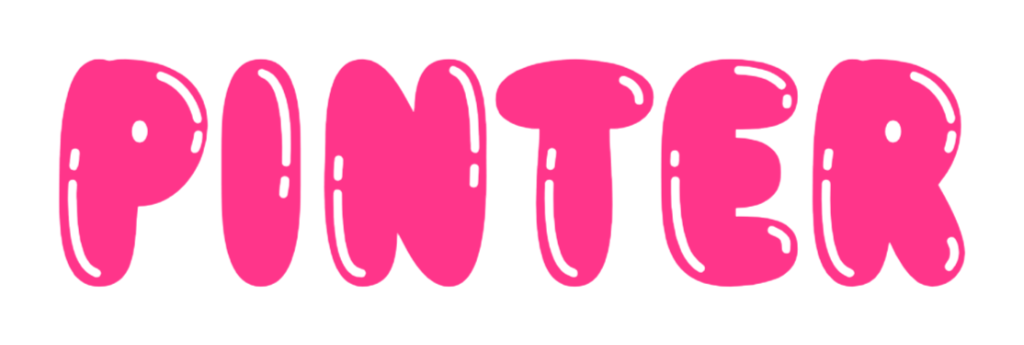
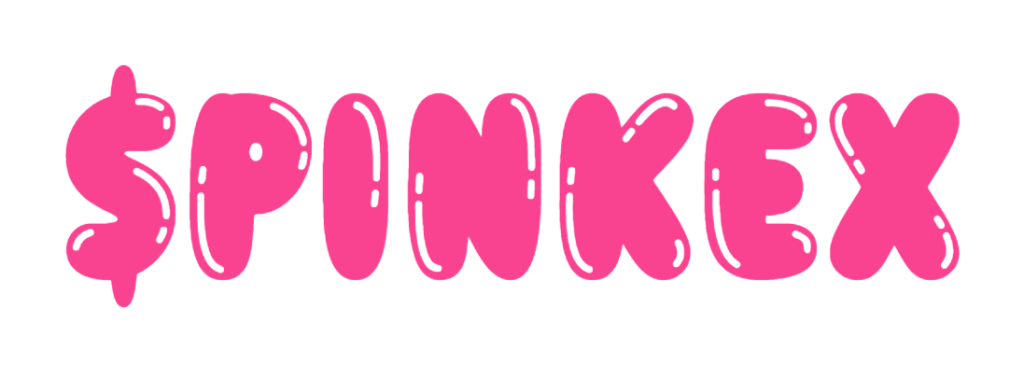
1

Changed region(s): [[0.0312, 0.1449, 0.9688, 0.8406]]

diff --git a/index.html b/index.html
@@ -3,11 +3,11 @@
 <head>
     <meta charset="utf-8"/>
     <meta http-equiv="Content-Type" content="text/html; charset=utf-8"/>
-    <meta name="viewport" content="width=device-width, initial-scale=1.0"/> <!--metatextblock--> <title>$PINTER</title>
-    <meta name="description" content="$PINTER"/>
+    <meta name="viewport" content="width=device-width, initial-scale=1.0"/> <!--metatextblock--> <title>$PINKEX</title>
+    <meta name="description" content="$PINKEX"/>
     <meta property="og:url" content="#"/>
-    <meta property="og:title" content="$PINTER"/>
-    <meta property="og:description" content="$PINTER"/>
+    <meta property="og:title" content="$PINKEX"/>
+    <meta property="og:description" content="$PINKEX"/>
     <meta property="og:type" content="website"/>
     <link rel="canonical" href="#"> <!--/metatextblock-->
     <meta name="format-detection" content="telephone=no"/>
@@ -134,7 +134,7 @@ document.addEventListener('DOMContentLoaded',t_setvisRecs);}})();
                      data-animate-sbs-opts="[{'ti':0,'mx':0,'my':0,'sx':1,'sy':1,'op':1,'ro':0,'bl':'0','ea':'','dt':0},{'ti':0,'mx':0,'my':0,'sx':1,'sy':1,'op':0,'ro':0,'bl':'0','ea':'','dt':0},{'ti':0,'mx':0,'my':0,'sx':1,'sy':1,'op':1,'ro':0,'bl':'0','ea':'','dt':0}]"
                      data-field-top-res-320-value="12" data-field-left-res-320-value="-24"
                      data-field-height-res-320-value="35" data-field-width-res-320-value="363">
-                    <div class='tn-atom'>CA - 6atZBeocdRkoF18uciy2FNKWFsD61Lt53MzDLHhpump</div>
+                    <div class='tn-atom'>CA - CYKbiRqtxZgKfaStib4tABMtVHsGyykGeZvrudmpump</div>
                 </div>
             </div>
         </div>
@@ -213,7 +213,7 @@ document.addEventListener('DOMContentLoaded',t_setvisRecs);}})();
                      data-animate-sbs-opts="[{'mx':0,'my':0,'sx':1,'sy':1,'op':1,'ro':0,'ti':0,'ea':'0','dt':0},{'mx':6,'my':2,'sx':1,'sy':1,'op':1,'ro':0,'ti':300,'ea':'0','dt':0}]"
                      data-field-filewidth-value="121" data-field-fileheight-value="309"
                      data-field-top-res-320-value="280" data-field-left-res-320-value="271"
-                     data-field-width-res-320-value="49"><a class='tn-atom' href="https://t.me/iampinter"> <img
+                     data-field-width-res-320-value="49"><a class='tn-atom' href="https://t.me/iampinkex"> <img
                         class='tn-atom__img t-img'
                         data-original='https://static.tildacdn.one/tild3038-3439-4363-b061-386666626138/__-07.svg'
                         alt='' imgfield='tn_img_1727151381364'/> </a></div>
@@ -227,7 +227,7 @@ document.addEventListener('DOMContentLoaded',t_setvisRecs);}})();
                      data-field-filewidth-value="159" data-field-fileheight-value="280"
                      data-field-top-res-320-value="292" data-field-left-res-320-value="68"
                      data-field-width-res-320-value="64"><a class='tn-atom'
-                                                            href="https://pump.fun/6atZBeocdRkoF18uciy2FNKWFsD61Lt53MzDLHhpump"
+                                                            href="https://pump.fun/CYKbiRqtxZgKfaStib4tABMtVHsGyykGeZvrudmpump"
                                                             target="_blank"> <img class='tn-atom__img t-img'
                                                                                   data-original='./static.tildacdn.one/tild3337-3130-4366-a263-376566303136/__-04.svg'
                                                                                   alt=''
@@ -258,7 +258,7 @@ document.addEventListener('DOMContentLoaded',t_setvisRecs);}})();
                      data-animate-sbs-opts="[{'mx':0,'my':0,'sx':1,'sy':1,'op':1,'ro':0,'ti':0,'ea':'0','dt':0},{'mx':6,'my':2,'sx':1,'sy':1,'op':1,'ro':0,'ti':300,'ea':'0','dt':0}]"
                      data-field-filewidth-value="135" data-field-fileheight-value="356"
                      data-field-top-res-320-value="259" data-field-left-res-320-value="200"
-                     data-field-width-res-320-value="55"><a class='tn-atom' href="https://x.com/iampinter"
+                     data-field-width-res-320-value="55"><a class='tn-atom' href="https://x.com/iampinkex"
                                                             target="_blank"> <img class='tn-atom__img t-img'
                                                                                   data-original='https://static.tildacdn.one/tild3436-6139-4662-b933-303162633764/__-06.svg'
                                                                                   alt=''
@@ -282,16 +282,16 @@ document.addEventListener('DOMContentLoaded',t_setvisRecs);}})();
                      data-animate-duration="2" data-animate-delay="0.1" data-animate-distance="100"
                      data-animate-mobile="y" data-field-top-res-320-value="1058" data-field-left-res-320-value="-18"
                      data-field-width-res-320-value="356">
-                    <div class='tn-atom' field='tn_text_1727184762584'>PEPE and PINTER didn't know each other personally,
+                    <div class='tn-atom' field='tn_text_1727184762584'>PEPE and PINKEX didn't know each other personally,
                         but they had heard a lot about each other. But fate decided to bring them together. This is the
                         story of how an ordinary meeting in a bar, led to a very unusual business!<br><br>The story:<br>After
                         the second beer, the conversation turned to money and business, of course. Pepe knew that I was
                         into crypto, and I knew that only Pepe could take me and my hobby to the next level. That night,
                         I remembered his main thought and phrase “Memcoins are for people like us”. I had no idea that
-                        such a simple thought could lead me and him to a big project together - PINTER. For a long time,
+                        such a simple thought could lead me and him to a big project together - PINKEX. For a long time,
                         we studied trends, charts, learned from the mistakes of others, did everything! To become one of
                         the best! For PEPE this project is a proof that he is good in all areas, for me it is a new
-                        life!<br><br>I invite everyone to get acquainted with our unique project - $PINTER
+                        life!<br><br>I invite everyone to get acquainted with our unique project - $PINKEX
                     </div>
                 </div>
                 <div class='t396__elem tn-elem tn-elem__8013551231727382376860' data-elem-id='1727382376860'
@@ -654,8 +654,8 @@ document.addEventListener('DOMContentLoaded',t_setvisRecs);}})();
                      data-field-top-res-320-value="-24" data-field-left-res-320-value="90"
                      data-field-width-res-320-value="1258"
                      data-animate-sbs-opts-res-320="[{'mx':0,'my':0,'sx':1,'sy':1,'op':1,'ro':0,'ti':0,'dt':0},{'mx':-557,'my':0,'sx':1,'sy':1,'op':1,'ro':0,'ti':12000,'dt':0}]">
-                    <div class='tn-atom' field='tn_text_1726986932737'>$PINTER $PINTER $PINTER $PINTER
-                        $PINTER $PINTER $PINTER $PINTER $PINTER $PINTER $PINTER $PINTER $PINTER $PINTER
+                    <div class='tn-atom' field='tn_text_1726986932737'>$PINKEX $PINKEX $PINKEX $PINKEX
+                        $PINKEX $PINKEX $PINKEX $PINKEX $PINKEX $PINKEX $PINKEX $PINKEX $PINKEX $PINKEX
                     </div>
                 </div>
                 <div class='t396__elem tn-elem tn-elem__8013571741726986932735' data-elem-id='1726986932735'
@@ -673,7 +673,7 @@ document.addEventListener('DOMContentLoaded',t_setvisRecs);}})();
                      data-field-heightunits-value="" data-field-widthunits-value="px" data-animate-mobile="y"
                      data-field-top-res-320-value="-28" data-field-left-res-320-value="-36"
                      data-field-width-res-320-value="102">
-                    <div class='tn-atom' field='tn_text_1726986932733'>$PINTER</div>
+                    <div class='tn-atom' field='tn_text_1726986932733'>$PINKEX</div>
                 </div>
             </div>
         </div>
@@ -879,7 +879,7 @@ document.addEventListener('DOMContentLoaded',t_setvisRecs);}})();
                      data-animate-duration="1" data-animate-distance="100" data-animate-mobile="y"
                      data-field-top-res-320-value="1064" data-field-left-res-320-value="-13"
                      data-field-width-res-320-value="237">
-                    <div class='tn-atom' field='tn_text_1726990151743'>SWITCH YOUR SOL<br>ON $PINTER</div>
+                    <div class='tn-atom' field='tn_text_1726990151743'>SWITCH YOUR SOL<br>ON $PINKEX</div>
                 </div>
                 <div class='t396__elem tn-elem tn-elem__8013610331727242499553' data-elem-id='1727242499553'
                      data-elem-type='image' data-field-top-value="-175" data-field-left-value="3025"
@@ -965,7 +965,7 @@ document.addEventListener('DOMContentLoaded',t_setvisRecs);}})();
                      data-animate-sbs-opts="[{'ti':0,'mx':0,'my':0,'sx':1,'sy':1,'op':1,'ro':0,'bl':'0','ea':'','dt':0},{'ti':0,'mx':0,'my':0,'sx':1,'sy':1,'op':0,'ro':0,'bl':'0','ea':'','dt':0},{'ti':0,'mx':0,'my':0,'sx':1,'sy':1,'op':1,'ro':0,'bl':'0','ea':'','dt':0}]"
                      data-field-top-res-320-value="820" data-field-left-res-320-value="-24"
                      data-field-height-res-320-value="35" data-field-width-res-320-value="363">
-                    <div class='tn-atom'>CA - 6atZBeocdRkoF18uciy2FNKWFsD61Lt53MzDLHhpump</div>
+                    <div class='tn-atom'>CA - CYKbiRqtxZgKfaStib4tABMtVHsGyykGeZvrudmpump</div>
                 </div>
                 <div class='t396__elem tn-elem tn-elem__8013767601726992670973 ' data-elem-id='1726992670973'
                      data-elem-type='shape' data-field-top-value="468" data-field-left-value="28"
@@ -977,7 +977,7 @@ document.addEventListener('DOMContentLoaded',t_setvisRecs);}})();
                      data-animate-sbs-opts="[{'mx':0,'my':0,'sx':1,'sy':1,'op':1,'ro':0,'ti':0,'ea':'0','dt':0},{'mx':0,'my':0,'sx':1,'sy':1,'op':1,'ro':0,'ti':0,'ea':'0','dt':0},{'mx':0,'my':0,'sx':1.14,'sy':1.14,'op':1,'ro':0,'ti':500,'ea':'0','dt':0},{'mx':0,'my':0,'sx':1,'sy':1,'op':1,'ro':0,'ti':500,'ea':'0','dt':0}]"
                      data-field-top-res-320-value="268" data-field-left-res-320-value="25"
                      data-field-height-res-320-value="134" data-field-width-res-320-value="131"><a
-                        class='tn-atom t-bgimg' href="https://x.com/iampinter" target="_blank"
+                        class='tn-atom t-bgimg' href="https://x.com/iampinkex" target="_blank"
                         data-original="https://static.tildacdn.one/tild6136-6665-4639-b830-646562633633/facdd348-c5a7-440f-9.png"> </a>
                 </div>
                 <div class='t396__elem tn-elem tn-elem__8013767601726992670970 ' data-elem-id='1726992670970'
@@ -990,7 +990,7 @@ document.addEventListener('DOMContentLoaded',t_setvisRecs);}})();
                      data-animate-sbs-opts="[{'mx':0,'my':0,'sx':1,'sy':1,'op':1,'ro':0,'ti':0,'ea':'0','dt':0},{'mx':0,'my':0,'sx':1,'sy':1,'op':1,'ro':0,'ti':0,'ea':'0','dt':0},{'mx':0,'my':0,'sx':1.12,'sy':1.12,'op':1,'ro':0,'ti':600,'ea':'0','dt':0},{'mx':0,'my':0,'sx':1,'sy':1,'op':1,'ro':0,'ti':600,'ea':'0','dt':0}]"
                      data-field-top-res-320-value="268" data-field-left-res-320-value="171"
                      data-field-height-res-320-value="117" data-field-width-res-320-value="116"><a
-                        class='tn-atom t-bgimg' href="https://t.me/iampinter" target="_blank"
+                        class='tn-atom t-bgimg' href="https://t.me/iampinkex" target="_blank"
                         data-original="https://static.tildacdn.one/tild3532-3539-4361-a263-653530313564/193209b4-fd67-4be4-8.png"> </a>
                 </div>
                 <div class='t396__elem tn-elem tn-elem__8013767601727185204038' data-elem-id='1727185204038'
@@ -1013,8 +1013,8 @@ document.addEventListener('DOMContentLoaded',t_setvisRecs);}})();
                      data-field-top-res-320-value="-33" data-field-left-res-320-value="90"
                      data-field-width-res-320-value="1258"
                      data-animate-sbs-opts-res-320="[{'mx':0,'my':0,'sx':1,'sy':1,'op':1,'ro':0,'ti':0,'dt':0},{'mx':-557,'my':0,'sx':1,'sy':1,'op':1,'ro':0,'ti':12000,'dt':0}]">
-                    <div class='tn-atom' field='tn_text_1727185204036'>$PINTER $PINTER $PINTER $PINTER
-                        $PINTER $PINTER $PINTER $PINTER $PINTER $PINTER $PINTER $PINTER $PINTER $PINTER
+                    <div class='tn-atom' field='tn_text_1727185204036'>$PINKEX $PINKEX $PINKEX $PINKEX
+                        $PINKEX $PINKEX $PINKEX $PINKEX $PINKEX $PINKEX $PINKEX $PINKEX $PINKEX $PINKEX
                     </div>
                 </div>
                 <div class='t396__elem tn-elem tn-elem__8013767601727185204034' data-elem-id='1727185204034'
@@ -1032,7 +1032,7 @@ document.addEventListener('DOMContentLoaded',t_setvisRecs);}})();
                      data-field-heightunits-value="" data-field-widthunits-value="px" data-animate-mobile="y"
                      data-field-top-res-320-value="-37" data-field-left-res-320-value="-36"
                      data-field-width-res-320-value="102">
-                    <div class='tn-atom' field='tn_text_1727185204031'>$PINTER</div>
+                    <div class='tn-atom' field='tn_text_1727185204031'>$PINKEX</div>
                 </div>
                 <div class='t396__elem tn-elem tn-elem__8013767601727185437316 t-animate' data-elem-id='1727185437316'
                      data-elem-type='text' data-field-top-value="760" data-field-left-value="380"
@@ -1068,7 +1068,7 @@ document.addEventListener('DOMContentLoaded',t_setvisRecs);}})();
                      data-field-top-res-320-value="661" data-field-left-res-320-value="199"
                      data-field-height-res-320-value="112" data-field-width-res-320-value="111"><a
                         class='tn-atom t-bgimg'
-                        href="https://pump.fun/6atZBeocdRkoF18uciy2FNKWFsD61Lt53MzDLHhpump"
+                        href="https://pump.fun/CYKbiRqtxZgKfaStib4tABMtVHsGyykGeZvrudmpump"
                         target="_blank"
                         data-original="./static.tildacdn.one/tild6562-3066-4434-a632-643834316663/ee07b46e-fe46-4043-a.png"> </a>
                 </div>
